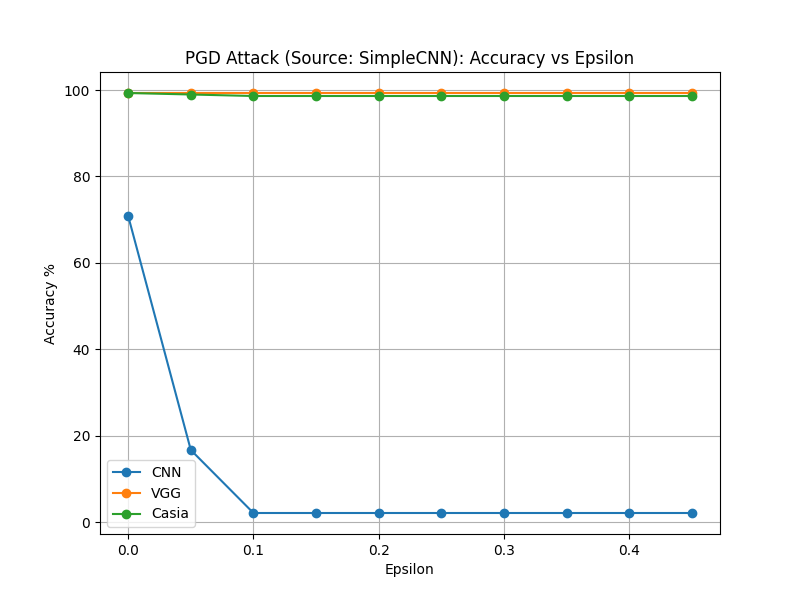
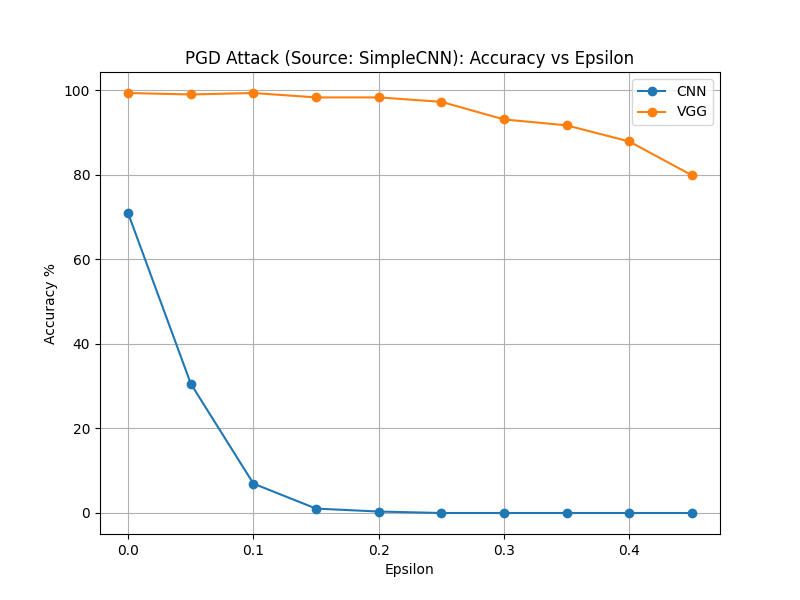
updated perturbations and utils

Changed region(s): [[0.0938, 0.36, 0.875, 0.87], [0.0938, 0.12, 0.9062, 0.3], [0.0938, 0.69, 0.125, 0.75]]

diff --git a/perturbations.py b/perturbations.py
@@ -28,6 +28,7 @@ class Adversary:
 
     def pgd(self, img, lbl, eps, iters = None):
         iters = iters or self.pgd_iters
+        self.alpha = eps/10
         delta = torch.empty_like(img).uniform_(-eps, eps)
         x = self.clamp_eps(img, img + delta, eps)
         for _ in range(iters):
@@ -45,6 +46,7 @@ class Adversary:
 
     def make_universal(self, dataset, eps, alpha = None, iters = None):
         alpha = alpha or self.alpha
+        alpha = eps/10
         iters = iters or self.pgd_iters
         v = torch.zeros_like(dataset[0][0])
         for _ in range(iters):

diff --git a/utils.py b/utils.py
@@ -45,6 +45,15 @@ def plot_lines(x, ys, title, xlabel, ylabel, save_path, labels = None, **plot_kw
     plt.grid(True)
     
 
-    plt.savefig(save_path + title)
+    # Construct filename with suffix if needed
+    base_filename = os.path.join(save_path, title)
+    full_filename = base_filename + ".png"
+    count = 1
+    while os.path.exists(full_filename):
+        full_filename = f"{base_filename}_{count}.png"
+        count += 1
+
+    plt.savefig(full_filename)
+    print(f"[✓] Plot saved to {full_filename}")
 
 
